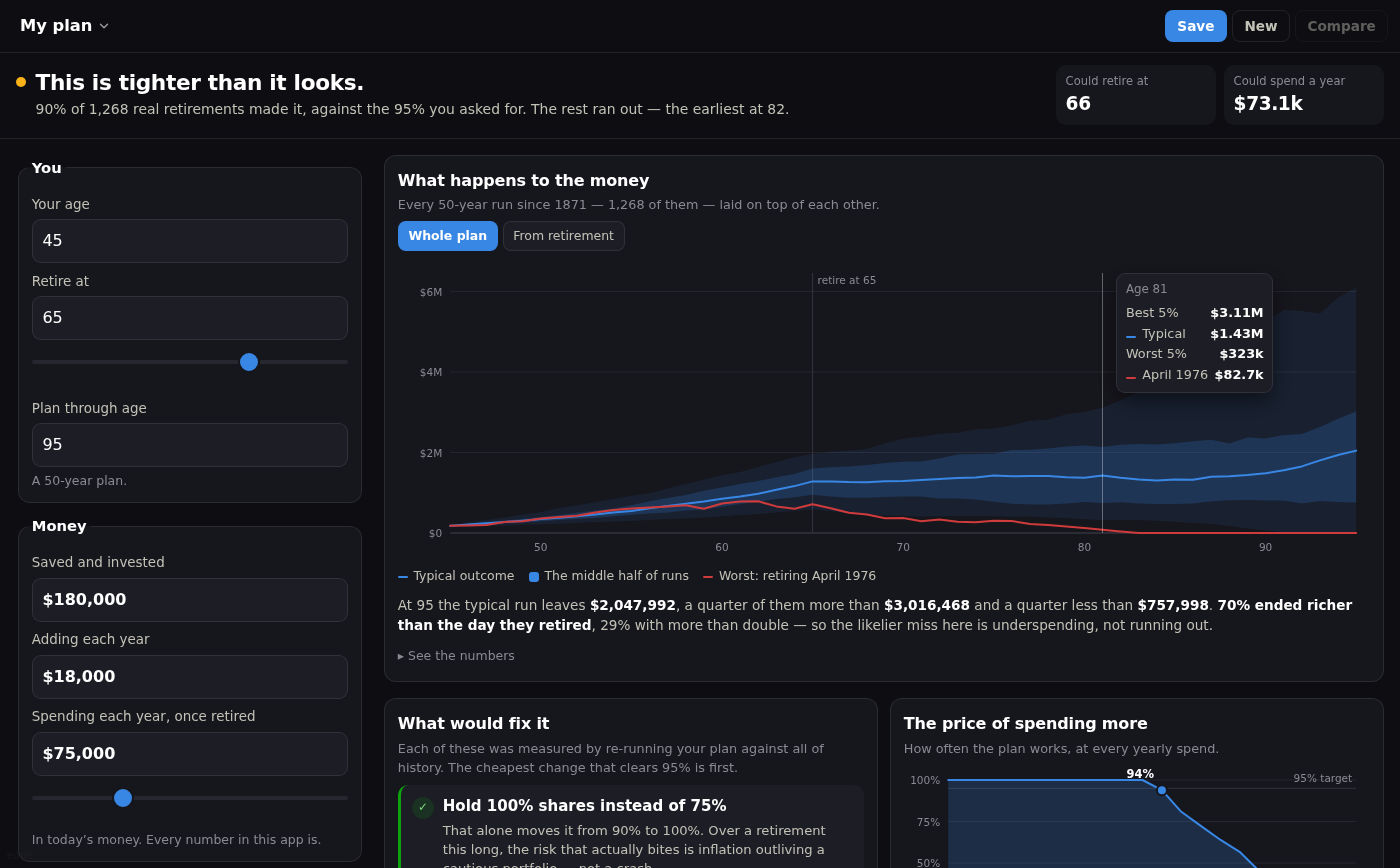
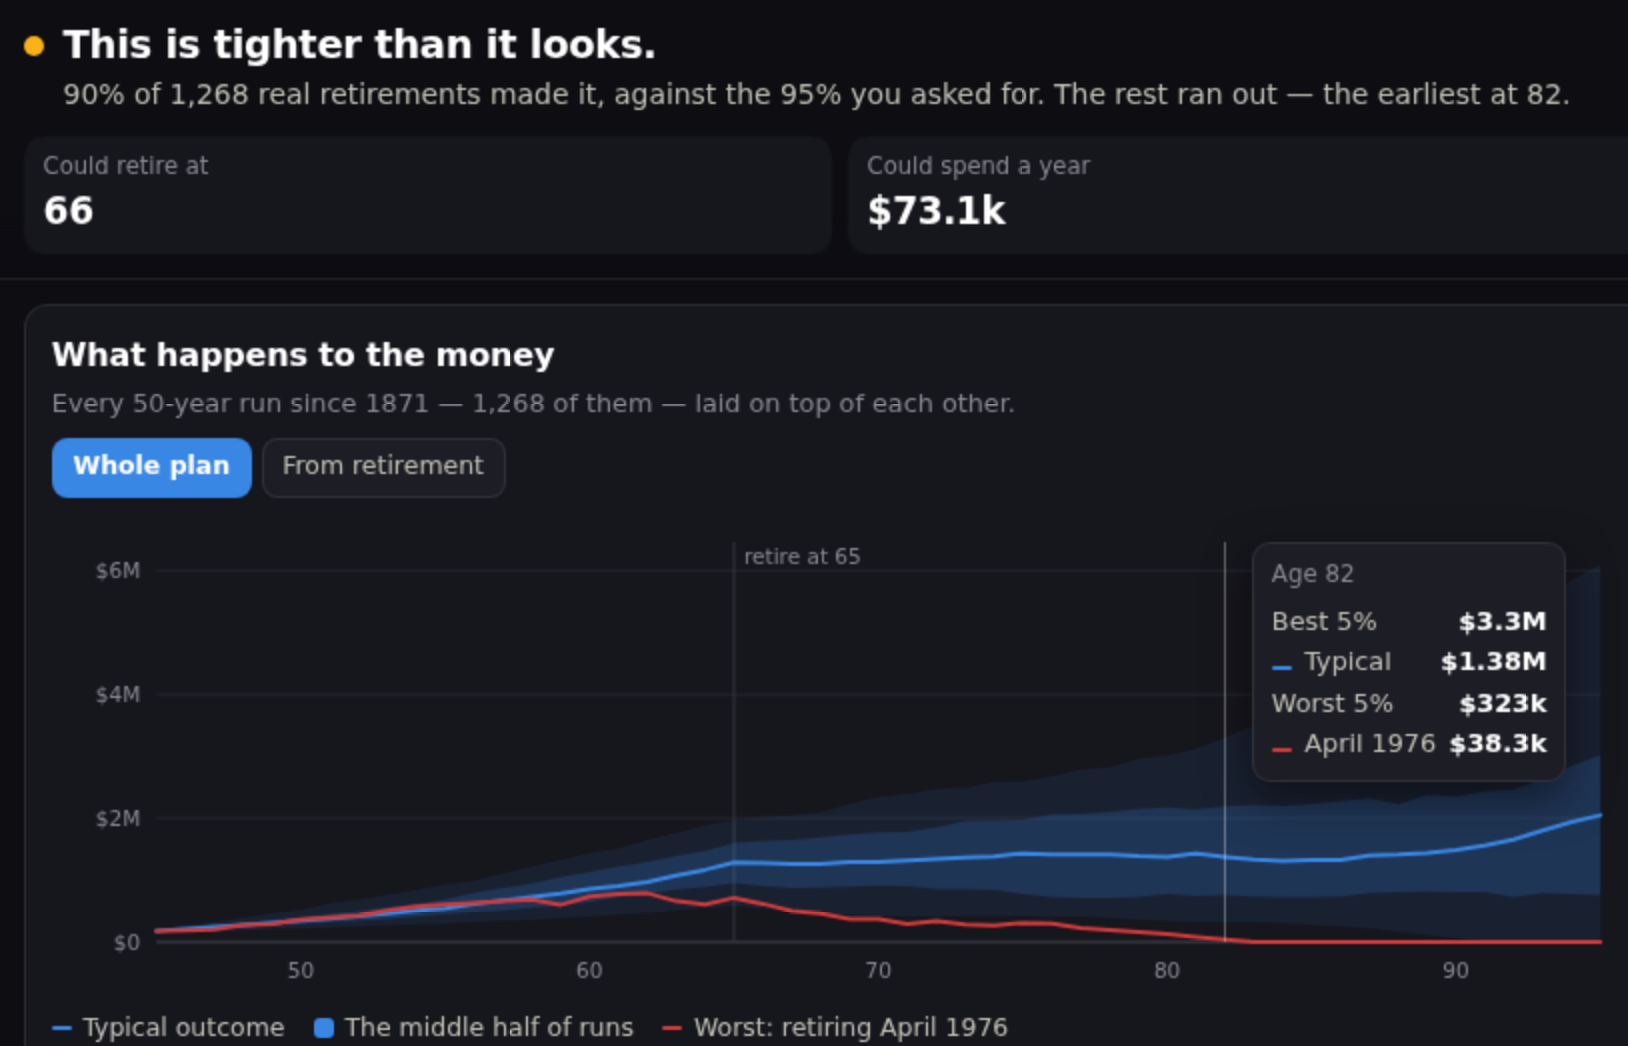
retirement: the cover was grey mush on the card, so it is shot narrow now
Rendered the old cover at the size the store actually shows it — 248px
wide — and nothing read. Not the headline, not the numbers, not the
chart. A full 1400px desktop screenshot squeezed into a 248px card is a
5.6x reduction, and every piece of type lands under 4px.

The way to find that out is to render the catalog's EXISTING covers at
248px and look at them together. The ones that survive have large
elements — jspaint's house, civiclock's isometric city, contrast-ratio's
big figure in a green circle. The ones that die are dense full-screen
shots, and mine was one of them.

What decides legibility is the ratio of CSS pixels to card pixels, and
deviceScaleFactor cannot help — it only adds sharpness to something still
too small. So the app is now shot at 840 CSS px, BELOW its own
two-column breakpoint, where it lays out in one column: no input rail
eating half the frame, the chart at full width, type 3.4x down instead of
5.6x. The frame is clipped to the verdict plus the fan, which lands at
1.55:1 against the card's 16/10 — so the card crops almost nothing and
the listing hero shows the same picture whole.

At 248px it now reads: 'This is tighter than it looks.', 66, $73.1k, and
a fan of a thousand retirements with one red line on the floor. The
crosshair is parked at age 82 — the age the worst run runs dry — so the
tooltip is showing April 1976 at $38.3k.

The reasoning is in the tool, not just this message, because the next
[…]

diff --git a/apps/retirement/tools/shot.js b/apps/retirement/tools/shot.js
@@ -36,11 +36,28 @@ const OUT = path.resolve(val('--out', COVER
   ? path.join(__dirname, '..', 'screenshot.png')
   : path.join('/tmp', 'retirement' + (PHONE ? '-phone' : '') + (USE_GIF ? '-gif' : '') + '.png')));
 
-// The cover is resized to 1200 wide by the catalog, so shoot 1400 at 1x: wide
-// enough for the two-column layout, and it lands just above the target rather
-// than being blown up.
+/* The cover is shot NARROW on purpose.
+ *
+ * The store card is 248px wide with `aspect-ratio: 16/10; object-fit: cover;
+ * object-position: top center`. A full 1400px-wide desktop screenshot squeezed
+ * into that is a 5.6x reduction: every piece of type falls under 4px and the
+ * card is grey mush. Rendering the catalog's existing covers at 248px shows
+ * exactly which ones survive — the ones with LARGE elements (jspaint's house,
+ * civiclock's city, contrast-ratio's big figure) — and which do not (any dense
+ * full-screen shot).
+ *
+ * What decides legibility is the ratio of CSS pixels to card pixels, and
+ * deviceScaleFactor cannot help with that — it only adds sharpness. So the app
+ * is shot at 840 CSS px, BELOW its two-column breakpoint, where it lays out in
+ * one column: no input rail eating half the frame, the chart at full width, and
+ * type ~3.4x rather than 5.6x down at card size.
+ *
+ * The frame is then clipped to the verdict plus the fan chart, which comes out
+ * at 1.61:1 against the card's 1.60 — so the card crops essentially nothing and
+ * the listing hero shows the same picture whole.
+ */
 const VIEW = PHONE ? { width: 390, height: 844 }
-  : COVER ? { width: 1400, height: 900 }
+  : COVER ? { width: 840, height: 700 }
     : { width: 1280, height: 860 };
 const sleep = (ms) => new Promise((r) => setTimeout(r, ms));
 
@@ -48,7 +65,7 @@ const sleep = (ms) => new Promise((r) => setTimeout(r, ms));
   const browser = await chromium.launch({ executablePath: CHROME });
   const context = await browser.newContext({
     viewport: VIEW,
-    deviceScaleFactor: 1,
+    deviceScaleFactor: COVER ? 2 : 1,
     isMobile: PHONE,
     hasTouch: PHONE
   });
@@ -127,9 +144,30 @@ const sleep = (ms) => new Promise((r) => setTimeout(r, ms));
       return { x: r.x, y: r.y, w: r.width, h: r.height };
     });
     if (svg) {
-      await page.mouse.move((box ? box.x : 0) + svg.x + svg.w * 0.72,
+      await page.mouse.move((box ? box.x : 0) + svg.x + svg.w * 0.74,
                             (box ? box.y : 0) + svg.y + svg.h * 0.45);
       await sleep(500);
+    }
+
+    // Clip to the verdict and the fan. The reading paragraph below is the first
+    // thing the card would crop anyway, and leaving it in only shrinks
+    // everything that matters.
+    const clip = await frame.evaluate(() => {
+      const a = document.getElementById('verdict');
+      const b = document.getElementById('legFan');
+      if (!a || !b) return null;
+      const ra = a.getBoundingClientRect(), rb = b.getBoundingClientRect();
+      return { x: ra.left, y: ra.top, w: rb.right - ra.left, h: rb.bottom - ra.top };
+    });
+    if (clip && box) {
+      await page.screenshot({
+        path: OUT,
+        clip: { x: box.x + clip.x, y: box.y + clip.y, width: clip.w, height: clip.h }
+      });
+      await browser.close();
+      console.log('wrote ' + OUT + '  (' + Math.round(clip.w) + 'x' + Math.round(clip.h)
+        + ' css, ' + (clip.w / clip.h).toFixed(2) + ':1 — the card is 1.60:1)');
+      process.exit(0);
     }
   }
 

diff --git a/site/go/retirement/index.html b/site/go/retirement/index.html
@@ -13,7 +13,7 @@
 <meta property="og:url" content="https://gifos.app/go/retirement/">
 <meta property="og:image" content="https://gifos.app/apps/retirement/cover.jpg">
 <meta property="og:image:width" content="1200">
-<meta property="og:image:height" content="744">
+<meta property="og:image:height" content="771">
 <meta property="og:image:alt" content="Retirement Calculator on GifOS">
 <meta name="twitter:card" content="summary_large_image">
 <meta name="twitter:title" content="Retirement Calculator on GifOS">
